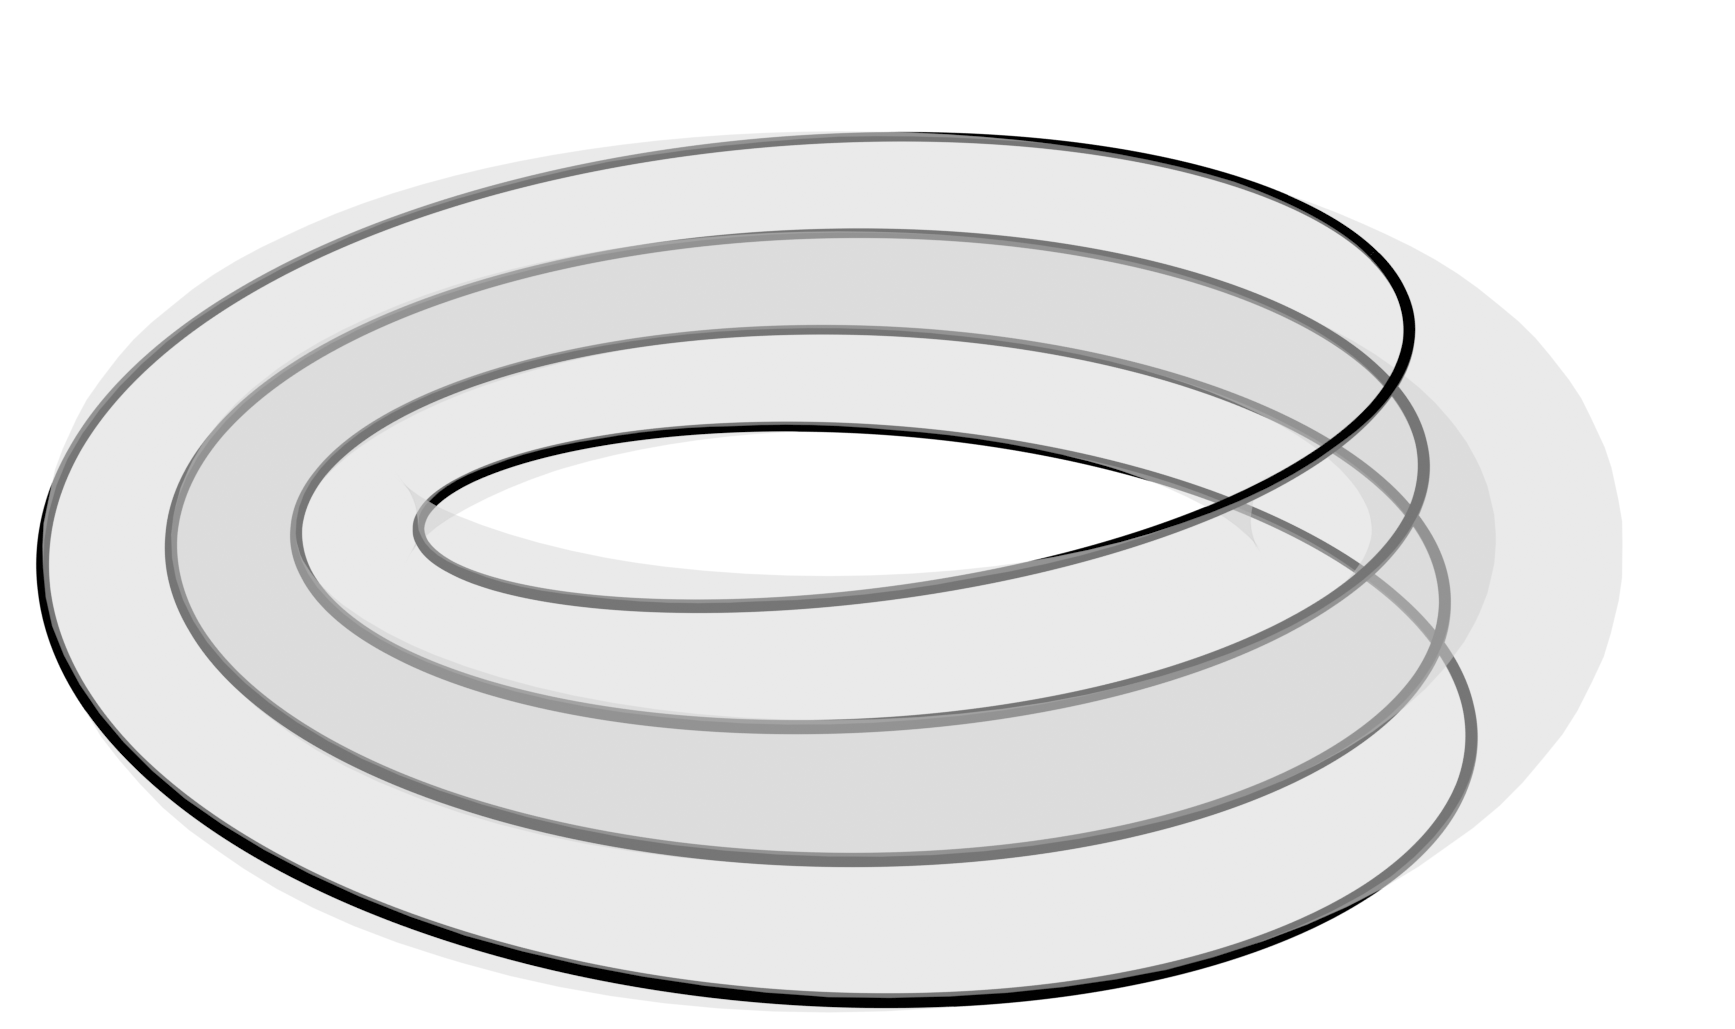
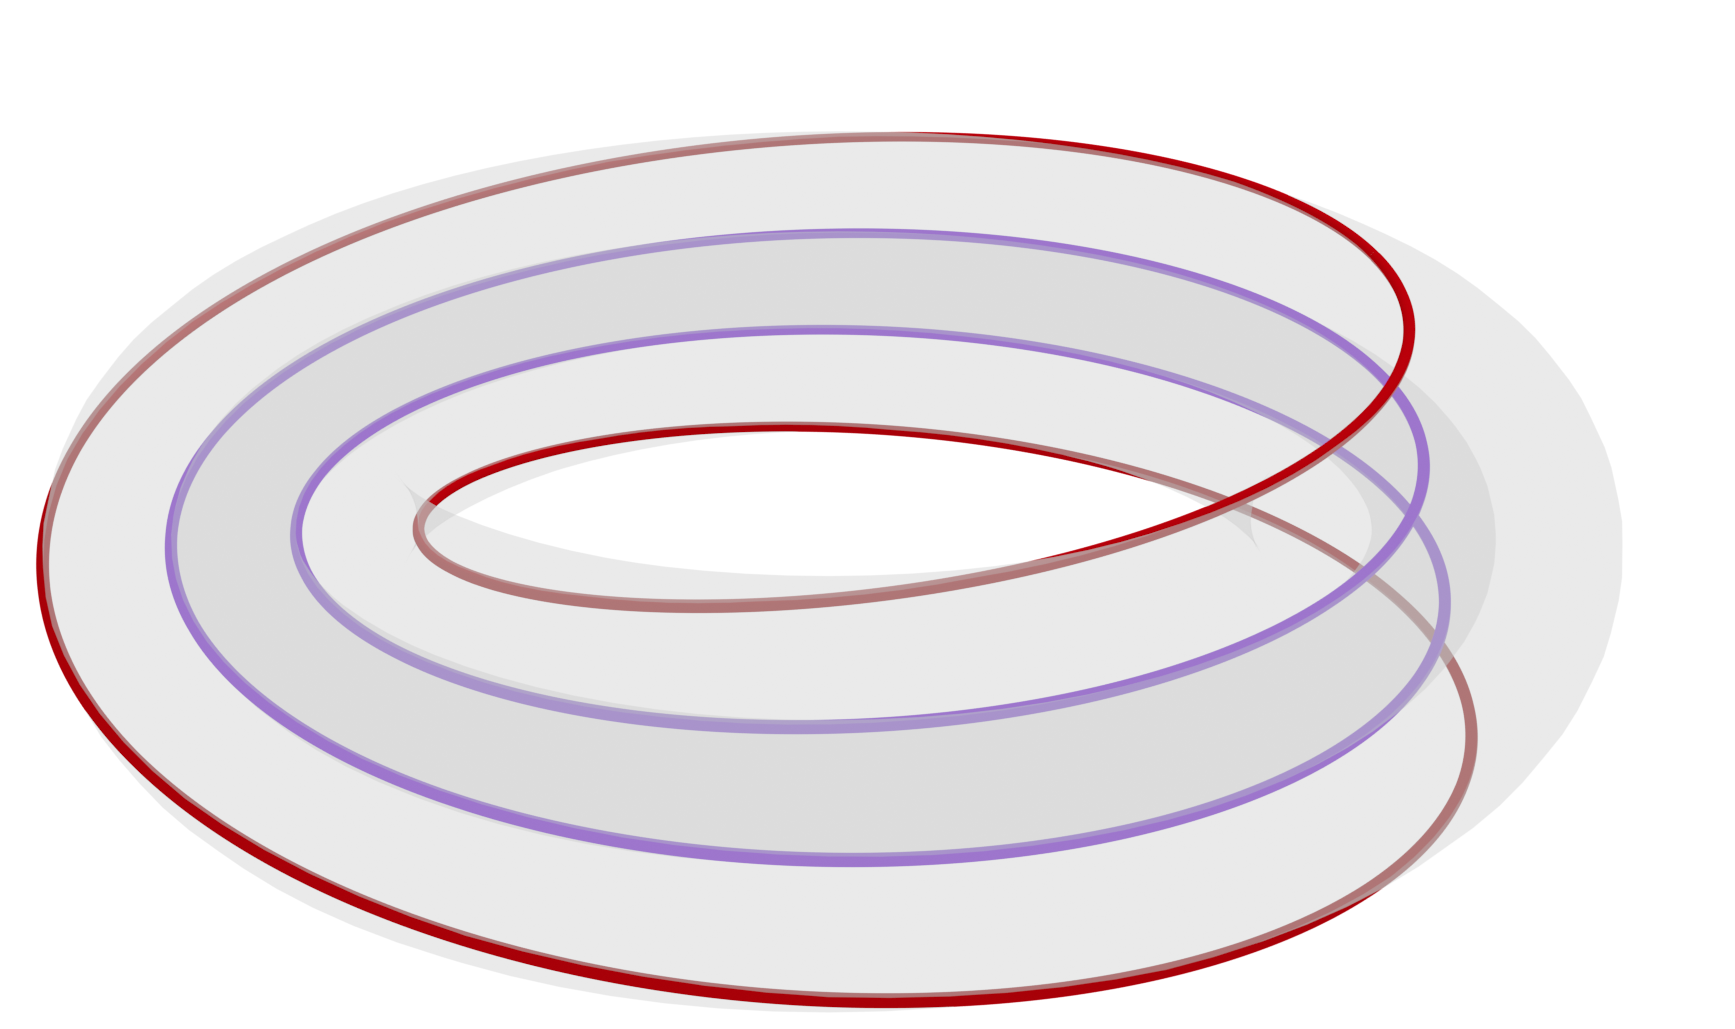
corrections

diff --git a/exotic-tori-in-atfs.tex b/exotic-tori-in-atfs.tex
@@ -118,8 +118,8 @@
 \begin{restatable}{theorem}{thmbdpqexotic}
     \label{thm:bdpqexotic}
   Let $U ⊂ H¹(T_k(a);ℝ) ∖ \{\text{branch cut line}\}$.
-  Up to change of basis, the restriction of the displacement energy germ to $U$ is given by
-  \[ \eval{\symcal{E}_{T_k(a)}}_U (x,y) = a+\min\{x,x(1-kpq)+ykp²\}\todo{so oder so ähnlich…} \]
+  Up to a change of basis, the restriction of the displacement energy germ to $U$ is given by
+  \[ \eval{\symcal{E}_{T_k(a)}}_U (x,y) = a+\min\{x,x(1-kpq)+ykp²\} \]
 \end{restatable}
 
 
@@ -130,16 +130,16 @@ Define the manifold $M_P$ by
   \label{eqn:MP}
 M_P = \qty{(z_1,z_2,z_3) ∈ ℂ³ \mid z₁z₂ + P(z₃)=0 } \; .
 \end{equation}
-We define the Hamiltonian system
+We define the pair of Hamiltonian functions
 \begin{equation}
   \label{eqn:non-toric-system}
-  \symbf{H}(z_1,z_2,z_3) = \qty(\abs{z_3}^2, \frac{1}{2}\qty(\abs{z_1}^2-\abs{z_2}^2))
+  \symbf{H}(z_1,z_2,z_3) = \qty(\abs{z_3}^2, \frac{1}{2}\qty(\abs{z_1}^2-\abs{z_2}^2)) \; .
 \end{equation}
 
 Let $ρ_p$ be the group of $p$-th roots of unity acting on $M_P$ by
 \[ρ \cdot (z₁,z₂,z₃) = \qty(ρz₁,ρ^{-1}z₂,ρ^q z₃), \quad ρ ∈ ρ_p \; .\]
-This is a free  action, so we can define the quotient $B_{dpq} = M_P/ρ_p$. The Hamiltonian system $\symbf{H}$ is invariant under the action, so it descends to a Hamiltonian system on $B_{dpq}$, giving us the almost toric fibration $\symbf{H} \colon B_{dpq} → B$, where $B = \im(H)$.
-As in \cite[Chapter 6]{evans2021atfs}, we can remove a ray going through the critical values in the moment image, and use the flux map to obtain a moment map $μ \colon B_{dpq} → Δ_{B_{dpq}}$ generating a Hamiltonian torus action everywhere except on the critical points, and having moment image $Δ_{B_{dpq}}$ as in \cref{fig:Bdpq_moment_image}.\todo{Kann man besser formulieren.}
+This is a free  action, so we can define the quotient $B_{dpq} = M_P/ρ_p$. $\symbf{H}$ is invariant under the action, so $\symbf{H}$ descends to a well defined pair of Hamiltonians on $B_{dpq}$, giving us the almost toric fibration\todo{definieren} $\symbf{H} \colon B_{dpq} → B$, where $B = \im(H)$.
+As in \cite[Chapter 6]{evans2021atfs}, we can remove a ray going through the critical values in the moment image, and use the flux map to obtain a moment map $μ \colon B_{dpq} → Δ_{B_{dpq}}$ generating a Hamiltonian torus action everywhere except on the critical points, and having moment image $Δ_{B_{dpq}}$ as in \cref{fig:Bdpq_moment_image}.\todo{Kann man besser \& genauer formulieren.}
 
 The position of the nodes can be varied along this ray by nodal slides.\todo{…which only affect some ε-neighboorhood.}
 
@@ -159,17 +159,17 @@ The position of the nodes can be varied along this ray by nodal slides.\todo{…
 \section{Homology of \texorpdfstring{$B_{dpq}$}{Bdpq}}
 \label{sec:homology}
 
-In order to calculate the lower bound for the displacement energy of a Lagrangian fibre torus $T(x,y) = μ^{-1}(\qty{(x,y)})$, we will need to calculate a basis for the homology $H_2\qty(B_{dpq},T(x,y))$.
+In order to calculate the lower bound for the displacement energy of a Lagrangian fibre torus $T(x_1,x_2) = μ^{-1}(\qty{(x_1,x_2)})$, we will want to have calculated a basis for the homology $H_2\qty(B_{dpq},T(x_1,x_2))$.
 
-$B_{dpq}$ deformation retracts to the preimage of the branch cut line segment $l$ shown in red in \cref{fig:branch_cut_retraction}, by first vertically shrinking the space onto the ray in direction $(p,q)$, and then compressing the part of the ray that is to the right of all the critical points.
+$B_{dpq}$ deformation retracts to the preimage of the branch cut line segment $ℓ$ shown in red in \cref{fig:branch_cut_retraction}, by first vertically shrinking the space onto the ray in direction $(p,q)$, and then compressing the part of the ray that is to the right of all the critical points.
 \todo{Das ist etwas dumm formuliert, lohnt es sich das besser zu formulieren?}
 
-The preimage $μ^{-1}(l)$ can be understood as follows: If there were no critical points on the line, this would be a solid torus $T = S¹×D²$.
-We pick $(1,0),(0,1) ∈ H₁(∂T)$ to be the classes generated by $S¹×\text{pt},\text{pt}×∂D²$ respectively.
+The preimage $μ^{-1}(ℓ)$ can be understood as follows: If there were no critical points on the line, this would be a solid torus $\hat{T} = S¹×D²$ with $∂ \hat{T} = T(x_1,x_2)$.
+We pick $(1,0),(0,1) ∈ H₁(∂ \hat{T})$ to be the classes generated by the orbits of Hamiltonian flows of $μ_1$ and $μ_2$ respectively.
 For each critical fibre $k ∈ \qty{1,…,d}$ we collapse a loop along the homology class $(-q,p)$, as in \cref{fig:collapse_cycles}.
 Up to homotopy this is the same as attaching a disk $D_k$ along $(-q,p)$.
-Again up to homotopy we can also require that the $d$ discs $D_1,…,D_d$ are attached along $∂T$.
-Let us call this space $S$.
+Again up to homotopy we can also require that the $d$ discs $D_1,…,D_d$ are attached along $∂ \hat{T}$.
+Let us call the resulting space $S$.
 
 \begin{figure}
   \centering
@@ -180,7 +180,7 @@ Let us call this space $S$.
         \fill[clip] (0,4) rectangle (8,-2);
 
         \draw[black!30, very thick] (0,0) -- (8,4);
-        \draw[red,line width=.125cm,draw opacity=.5, line cap=round] (0,0) -- (4,2) node[anchor=north] {$l$};
+        \draw[red,line width=.125cm,draw opacity=.5, line cap=round] (0,0) -- (4,2) node[anchor=north] {$ℓ$};
         \draw[thick,dotted] (2,1) node[cross] {} -- (4,2) node[cross] {} -- (8,4);
       \end{scope}
       \draw[thick] (0,4) -- (0,-2);
@@ -190,20 +190,20 @@ Let us call this space $S$.
   \end{subfigure}%
   \begin{subfigure}{0.55\textwidth}
     \includegraphics[width=\textwidth]{img/homology_collapse.png}
-    \caption{The cycles marked in black (here $p=2, q=1$) are collapsed to a point.}
+    \caption{The two cycles marked in red and purple (here $p=2, q=1$) are collapsed to a point.}
     \label{fig:collapse_cycles}
   \end{subfigure}
   \caption{Calculation of the homology of $B_{dpq}$}
 \end{figure}
 
-Let us look at the long exact sequence of homology for the pair $\qty(B_{dpq},T(x,y))$. This pair is homotopy equivalent to $(S,∂T)$.
+Let us look at the long exact sequence of homology for the pair $\qty(B_{dpq},T(x_1,x_2))$. This pair is homotopy equivalent to $(S,∂ \hat{T})$.
 
 \[
 \begin{tikzcd}
-  H_2(∂T) \ar[r,"0"] &
+  H_2(∂ \hat{T}) \ar[r,"0"] &
   H_2(S) \ar[r,hook]\ar[d,"≅"] &
-  H_2(S,∂T) \ar[r]\ar[d,"≅"] &
-  H_1(∂T) \ar[r]\ar[d,"≅"] &
+  H_2(S,∂ \hat{T}) \ar[r]\ar[d,"≅"] &
+  H_1(∂ \hat{T}) \ar[r]\ar[d,"≅"] &
   H_1(S) \ar[d,"≅"]
   \\
   &
@@ -214,12 +214,12 @@ Let us look at the long exact sequence of homology for the pair $\qty(B_{dpq},T(
 \end{tikzcd}
 \]
 
-The first horizontal map is zero since $∂T$ retracts to a circle in $S$.
-The homology $H_2(S)$ can be seen as follows: By contracting the solid torus $T$ in $S$ to a circle, we see that $S$ is homotopic to a circle with $d$ discs glued to its boundary by a degree $p$ map.
+The first horizontal map is zero since $∂ \hat{T}$ retracts to a circle in $S$.
+The homology $H_2(S)$ can be seen as follows: By contracting the solid torus $\hat{T}$ in $S$ to a circle, we see that $S$ is homotopic to a circle with $d$ discs glued to its boundary by a degree $p$ map.
 So $H_2(S)$ is generated by spheres $\qty{S_2,…,S_d}$, $S_k = D_{k-1}-D_{k}$.
-$H_2(S,∂T)$ is generated by the discs $D_0 = \text{pt}×D²,D₁,…,D_d$. In $B_{dpq}$, these discs can be seen, where the disc intersecting the toric boundary collapses the $(0,1)$ cycle in the toric fibre $T(x,y)$ and the discs intersecting the critical points collapse the $(-q,p)$ cycle (see \cref{fig:homology_generating_discs}).
-The elements $S_2,\ldots,S_d \in H_2(B_{dpq})$ can be realized by embedded Lagragian spheres fibering over the segments between the nodes in the ATF -- these are so-called \emph{visible Lagrangians}, see \cite[section 7.4]{evans2021atfs}.
-The boundary map $∂ \colon H_2(S,∂T) → H_1(∂T)$ is given by $\partial D_0 = (0,1),\, \partial D_i = (-q,p)$, meaning that the last horizontal map $H_1(∂T) → H_1(S)$ maps $(0,1)$ to the generator of $ℤ_p$.
+$H_2(S,∂ \hat{T})$ is generated by the discs $D_0 = \text{pt}×D²,D₁,…,D_d$. In $B_{dpq}$, these discs can be seen, where the disc intersecting the toric boundary collapses the $(0,1)$ cycle in the toric fibre $T(x_1,x_2)$ and the discs intersecting the critical points collapse the $(-q,p)$ cycle (see \cref{fig:homology_generating_discs}).
+The elements $S_2,\ldots,S_d \in H_2(B_{dpq})$ can be realized by embedded Lagragian spheres fibering over the segments between the nodes in the ATF -- these are so-called \emph{visible Lagrangians}, see \cite[Section 7.4]{evans2021atfs}.
+The boundary map $∂ \colon H_2(S,∂ \hat{T}) → H_1(∂ \hat{T})$ is given by $\partial D_0 = (0,1),\, \partial D_i = (-q,p)$, meaning that the last horizontal map $H_1(∂ \hat{T}) → H_1(S)$ maps $(0,1)$ to the generator of $ℤ_p$.
 
 
 \begin{figure}
@@ -228,7 +228,7 @@ The boundary map $∂ \colon H_2(S,∂T) → H_1(∂T)$ is given by $\partial D_
     \fill[black!5] (0,4) rectangle (7,-1);
 
     \coordinate (xy) at (2.7,3.5);
-    \node[anchor=south] at (xy) {$T(x,y)$};
+    \node[anchor=south] at (xy) {$T(x_1,x_2)$};
     \fill (xy) circle[radius=.05];
     \draw (xy)
            .. controls +(0,0) and +(-.5,1) .. node[anchor=east, near end] {$D₁$} (2,1)
@@ -244,14 +244,14 @@ The boundary map $∂ \colon H_2(S,∂T) → H_1(∂T)$ is given by $\partial D_
     \draw[thick] (0,4) -- (0,-1);
   \end{tikzpicture}
 
-  \caption{The disks $D₀, …, D_d$ generating the homology $H₂\qty(B_{dpq}, T(x,y))$}
+  \caption{The disks $D₀, …, D_d$ generating the homology $H₂\qty(B_{dpq}, T(x_1,x_2))$}
   \label{fig:homology_generating_discs}
 \end{figure}
 
 \section{Lower Bound on Displacement Energy: Minimal J-holomorphic Curves}
 \label{sec:lower_bound}
 
-We want to use the following Theorem by Chekanov \cite{chekanov1998} for a lower bound of the displacement energy
+We want to use the following theorem by Chekanov \cite{chekanov1998} for a lower bound of the displacement energy
 
 \begin{theorem}
   \label{thm:chekanov}
@@ -259,35 +259,33 @@ We want to use the following Theorem by Chekanov \cite{chekanov1998} for a lower
   \[e(L) ≥ \min\qty{σ_D(X,L,J),σ_S(X,J)}\]
 \end{theorem}
 
-Fibres $T(λ p,λ q)$ for $λ > 0$ are monotone whenever they are not on a node. We compute displacement energy of the non-monotone fibres.\todo{das müsste man auch noch zeigen oder verrefferenzen, ist aber irgendwie irrelevant…}
+The fibres $T(λ p,λ q)$ for $λ > 0$ are monotone whenever they are not on a node. We compute the displacement energy of the non-monotone fibres.\todo{das müsste man auch noch zeigen oder verrefferenzen, ist aber irgendwie irrelevant…}
 Note that $T(x_0,y_0)$ yields a well-defined torus up to Hamiltonian isotopy, i.e.\ it is independent of the nodal slides, see \todo{referenz, wahrscheinlich nicht der richtige ort für diesen kommentar.}.
 
 To use \cref{thm:chekanov}, we can choose a suitable almost complex structure on $B_{dpq}$.
 
-We do so in the following way: During the construction of $B_{dpq}$, we defined $B_{dpq}$ as the quotient of $M_P$ under the free action of $ρ_p$. As a algebraic hypersurface $M_P$ naturally inherits the complex structure of $ℂ³$, and we use $J$ to denote it on $M_P$ as well as on its quotient $B_{dpq}$.
+We do so in the following way: In the above the construction of $B_{dpq}$, we defined $B_{dpq}$ as the quotient of $M_P$ under the free action of $ρ_p$. As a algebraic hypersurface $M_P$ naturally inherits the complex structure of $ℂ³$, and we use $J$ to denote it on $M_P$ as well as on its quotient $B_{dpq}$.
 
-The first coordinate of $\symbf{H}$ in \cref{eqn:non-toric-system}, is a plurisubharmonic function on $ℂ³$, as $-\dd \dd^ℂ \symbf{H}₁ = 2 \dd{x_3} ∧ \dd{y_3} ≥ 0$. As $M_P$ is an algebraic hypersurface, this restricts to a plurisubharmonic function on $M_P$, and also descends to the quotient $B_{dpq}$ as a plurisubharmonic function.
+The first component of $\symbf{H}$ in \ref{eqn:non-toric-system}, is a (weakly) plurisubharmonic\todo{definieren} function on $ℂ³$, as $-\dd \dd^ℂ \symbf{H}₁ = 2 \dd{x_3} ∧ \dd{y_3} ≥ 0$. As $M_P$ is an algebraic hypersurface, this restricts to a plurisubharmonic function on $M_P$, and also descends to the quotient $B_{dpq}$ as a plurisubharmonic function.
 
-In particular, any J-holomorphic curve $u\colon Σ → B_{dpq}$ satisfies the maximum principle with respect to $\symbf{H}₁$, i.e.\ if $\symbf{H}₁ ∘ u$ has a maximum, it must be on $∂Σ$, and if $\symbf{H}₁ ∘ u$ is non-zero then it must be constant.\footnote{The latter is obtained by applying the maximum principle to $\frac{1}{\symbf{H}₁ ∘ u}$.}
+In particular, any $J$-holomorphic curve $u\colon Σ → B_{dpq}$ satisfies the maximum principle with respect to $\symbf{H}₁$, i.e.\ if $\symbf{H}₁ ∘ u$ has a maximum, it must be on $∂Σ$, and if $\symbf{H}₁ ∘ u$ is non-zero then it must be constant.\footnote{The latter is obtained by applying the maximum principle to $\frac{1}{\symbf{H}₁ ∘ u}$.}
 
-Let $b = (b₁,b₂) ∈ \im(\symbf{H})$ and set $T = \symbf{H}^{-1}(b)$. Let $u: (Σ,∂Σ) → (B_{dpq},L)$ be a J-holomorphic curve. We have $\symbf{H}₁ ∘ u ≤ b₁$ by the maximum principle. This means that if we have $b₁ ≤ \symbf{H}₁(aᵢ)$ for all $1≤i≤d$, then $u$ is entirely contained in the region $\symbf{H}^{-1}(\qty{\symbf{H}₁ ≤ b₁})$ which is homotopic to a solid torus rel $T$.
+Let $b = (b₁,b₂) ∈ \im(\symbf{H})$ and set $T = \symbf{H}^{-1}(b)$. Let $u \colon (Σ,∂Σ) → (B_{dpq},T)$ be a $J$-holomorphic curve. We have $\symbf{H}₁ ∘ u ≤ b₁$ by the maximum principle, thus $u$ is entirely contained in the region $\symbf{H}^{-1}(\qty{\symbf{H}₁ ≤ b₁})$. This means that if we have $b₁ ≤ \symbf{H}₁(aᵢ)$, for all $1≤i≤d$, where the $a_i$ are the zeros of $P$ as in \cref{sec:homology}, then this region is homotopic to a solid torus.
 
-Since the homology of this space is isomorphic to $ℤ$ and generated by $D₀$ as in \cref{sec:homology}, and the area of a J-disc rel $L$ only depends on its homology class, we have that
+Since the homology of $(\symbf{H}^{-1}(\qty{\symbf{H}_1 ≤ b_1}), T)$ is isomorphic to $ℤ$ and generated by $D₀$ as in \cref{sec:homology}, and the area of a $J$-disc rel $T$ only depends on its homology class, we have that
 \[σ_D(X,T,J) ≥ ∫_{D₀} ω  = μ₁(T)\]
 
-Since $B_{dpq}$ contains no J-holomorphic spheres,\footnote{Its homology is generated by Lagrangian spheres, thus any closed J-holomorphic curve has symplectic area $0$ and must be constant.} we have proven the following:
+Since $B_{dpq}$ contains no $J$-holomorphic spheres,\footnote{Its homology is generated by Lagrangian spheres, thus any closed $J$-holomorphic curve has symplectic area $0$ and must be constant.} we have proven the following:
 
 \begin{lemma}
   \label{lem:lower_bound}
   If $b₁ < \symbf{H}₁(aᵢ)$ for all $1 ≤ i ≤ d$, then
-  \[e(B_{dpq},L) ≥ σ_D(X,L,J) ≥ ∫_{D₀} ω  = μ₁(L) \; .\]
+  \[e(B_{dpq},T) ≥ σ_D(X,T,J) ≥ ∫_{D₀} ω  = μ₁(T) \; .\]
 \end{lemma}
 
 \section{Upper bound on displacement energy: Probes}
 
 \section{Proof of non-embedded version}
-
-\todo[inline]{ !!! Hier wird noch viel Händewedeln betrieben.}
 
 \begin{lemma}
   \label{lem:bdq_displacement}
@@ -300,7 +298,7 @@ Since $B_{dpq}$ contains no J-holomorphic spheres,\footnote{Its homology is gene
 
   For the lower bound, we first use a nodal slide to make room for a probe (see\todo{Picture}). Using that, we get the upper bound $e(T)≤x$.
   
-  Using a nodal slide together with \cite[Corollary 5.4]{symington2002FourDF} which determines the symplectic manifold over a almost toric base up to symplectomorphism, we can modify the polynomial $P(z) = Π_{i=1}^d (z-a_i)$, while keeping $\symbf{H}(T) = {b}$.
+  Using a nodal slide together with \cite[Corollary 5.4]{symington2002FourDF} which determines the symplectic manifold over an almost toric base up to symplectomorphism, we can modify the polynomial $P(z) = Π_{i=1}^d (z-a_i)$, while keeping $\symbf{H}(T) = {b}$.
   Thus we can choose the nodal slide so that we have that $b_1 = \symbf{H}_1(T) ≤ \symbf{H}_1(a_i)$ for all $ 1 ≤ i ≤ d$.
   So we can apply \cref{lem:lower_bound}, and to get the lower bound $e(T) ≥ x$.
 \end{proof}
@@ -313,7 +311,7 @@ Recall that $T_k(a)$ is the fibre over $(a,\frac{q}{p}a)$ such that there are $k
 
 \begin{proof}[Proof of \cref{thm:bdpqexotic}]
   Using mutations at the $k$ nodes to the left of $T_k(a)$, we get a new moment map $\overline{μ}$ and moment polytope $\overline{Δ_{B_{dpq}}}$ such that $T_k(a)$ is a regular \todo{this is the wrong word...} fibre of $\overline{μ}$ (Instead of sitting on a branch cut line).
-  Then using a versal deformation \todo{whooo magic word}, we can identify a neighbourhood $U$ of $0 ∈ H¹(T_k(a);ℝ)$ with a neighbourhood $V ⊂ \overline{Δ_{B_{dpq}}}^{\text{reg}}$ of the basepoint $(a,\frac{qa}{p}) = μ(T_k(a))$, where we identify points in $\overline{Δ_{B_{dqp}}}^{reg}$ with their preimages, which are Lagrangian tori.
+  Then using a versal deformation \todo{definieren}, we can identify a neighbourhood $U$ of $0 ∈ H¹(T_k(a);ℝ)$ with a neighbourhood $V ⊂ \overline{Δ_{B_{dpq}}}^{\text{reg}}$ of the basepoint $(a,\frac{qa}{p}) = μ(T_k(a))$, where we identify points in $\overline{Δ_{B_{dqp}}}^{reg}$ with their preimages, which are Lagrangian tori.
 
   Choose generators in $H¹(T_k(a);ℝ)$ corresponding to $μ_1,μ_2$\todo{wie genau?}. Then $(x,y) ∈ H¹(T_k(a);ℝ)$ is sent by versal deformation to $(a + x, \frac{q}{p}a + y)$ in $\overline{Δ_{B_{dpq}}}$.
   If it is above the branch cut ray, the mutation leaves it unaffected, and the displacement energy is $x+a$.
